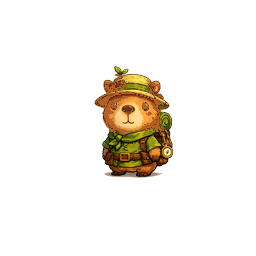
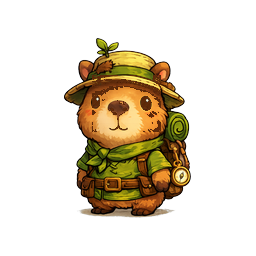
fix(npc): adjust explorer capybara crop and scale to be proportional to other NPCs

Changed region(s): [[0.25, 0.125, 0.75, 0.875]]

diff --git a/service-worker.js b/service-worker.js
@@ -1,4 +1,4 @@
-const CACHE_NAME = 'capivara-v10';
+const CACHE_NAME = 'capivara-v11';
 const ASSETS = [
   './',
   './index.html',
